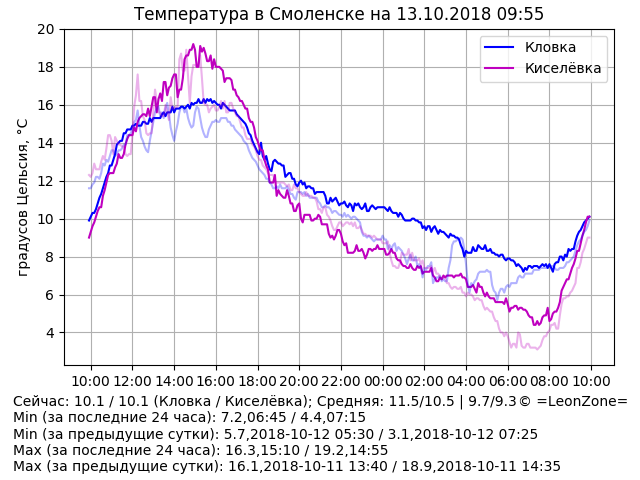
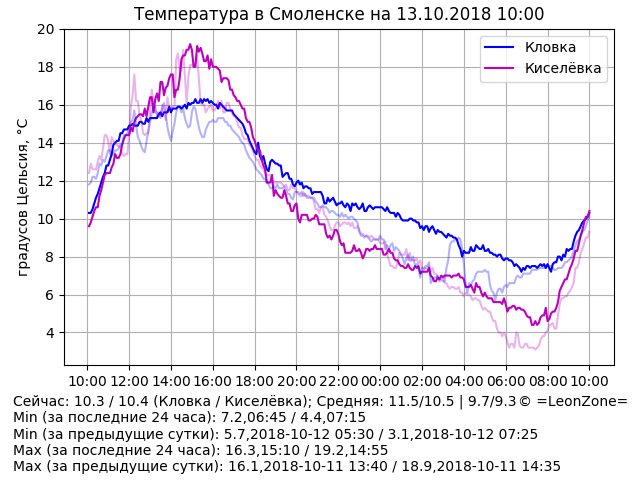
Update data

Changed region(s): [[0.125, 0.0938, 0.9375, 0.75], [0.0938, 0.7812, 0.9688, 0.8438], [0.7812, 0.0, 0.8438, 0.0625]]

diff --git a/index.html b/index.html
@@ -14,7 +14,7 @@
 	<p align="center"><script>document.write("<img src=\"graph.png?rnd="+Math.random()+"\" alt=\"Температура в Смоленске\" align=\"middle\" width=\"640\" height=\"480\" />")</script>
 	<p hidden="true">
 <!-- textinfo -->
-Сейчас: 10.1 / 10.1 (Кловка / Киселёвка); Средняя: 11.5/10.5 | 9.7/9.3
+Сейчас: 10.3 / 10.4 (Кловка / Киселёвка); Средняя: 11.5/10.5 | 9.7/9.3
 Min (за последние 24 часа): 7.2,06:45 / 4.4,07:15
 Min (за предыдущие сутки): 5.7,2018-10-12 05:30 / 3.1,2018-10-12 07:25
 Max (за последние 24 часа): 16.3,15:10 / 19.2,14:55
